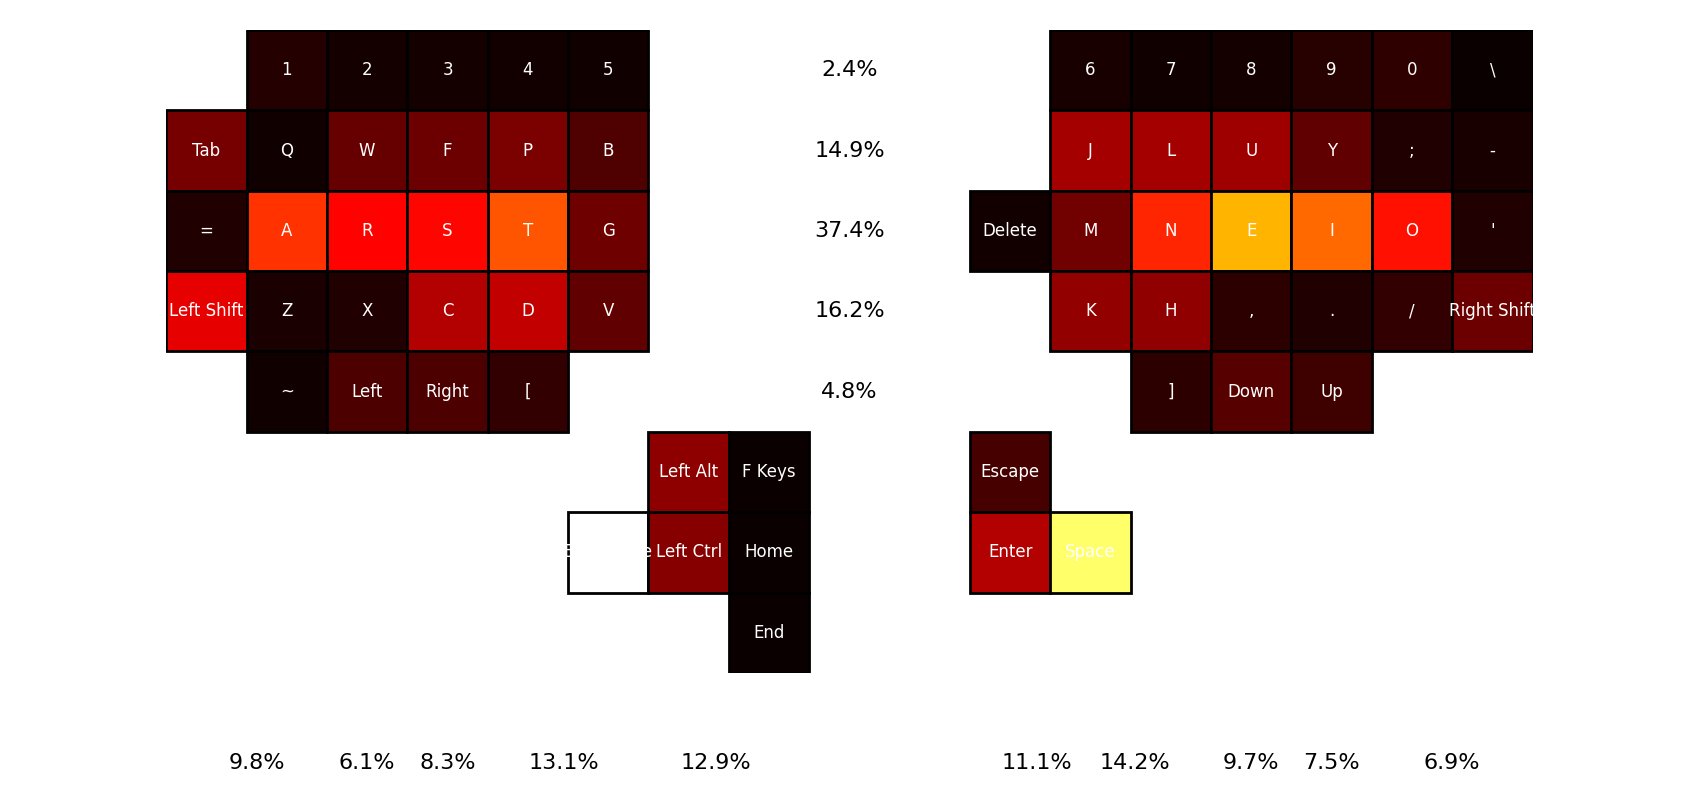
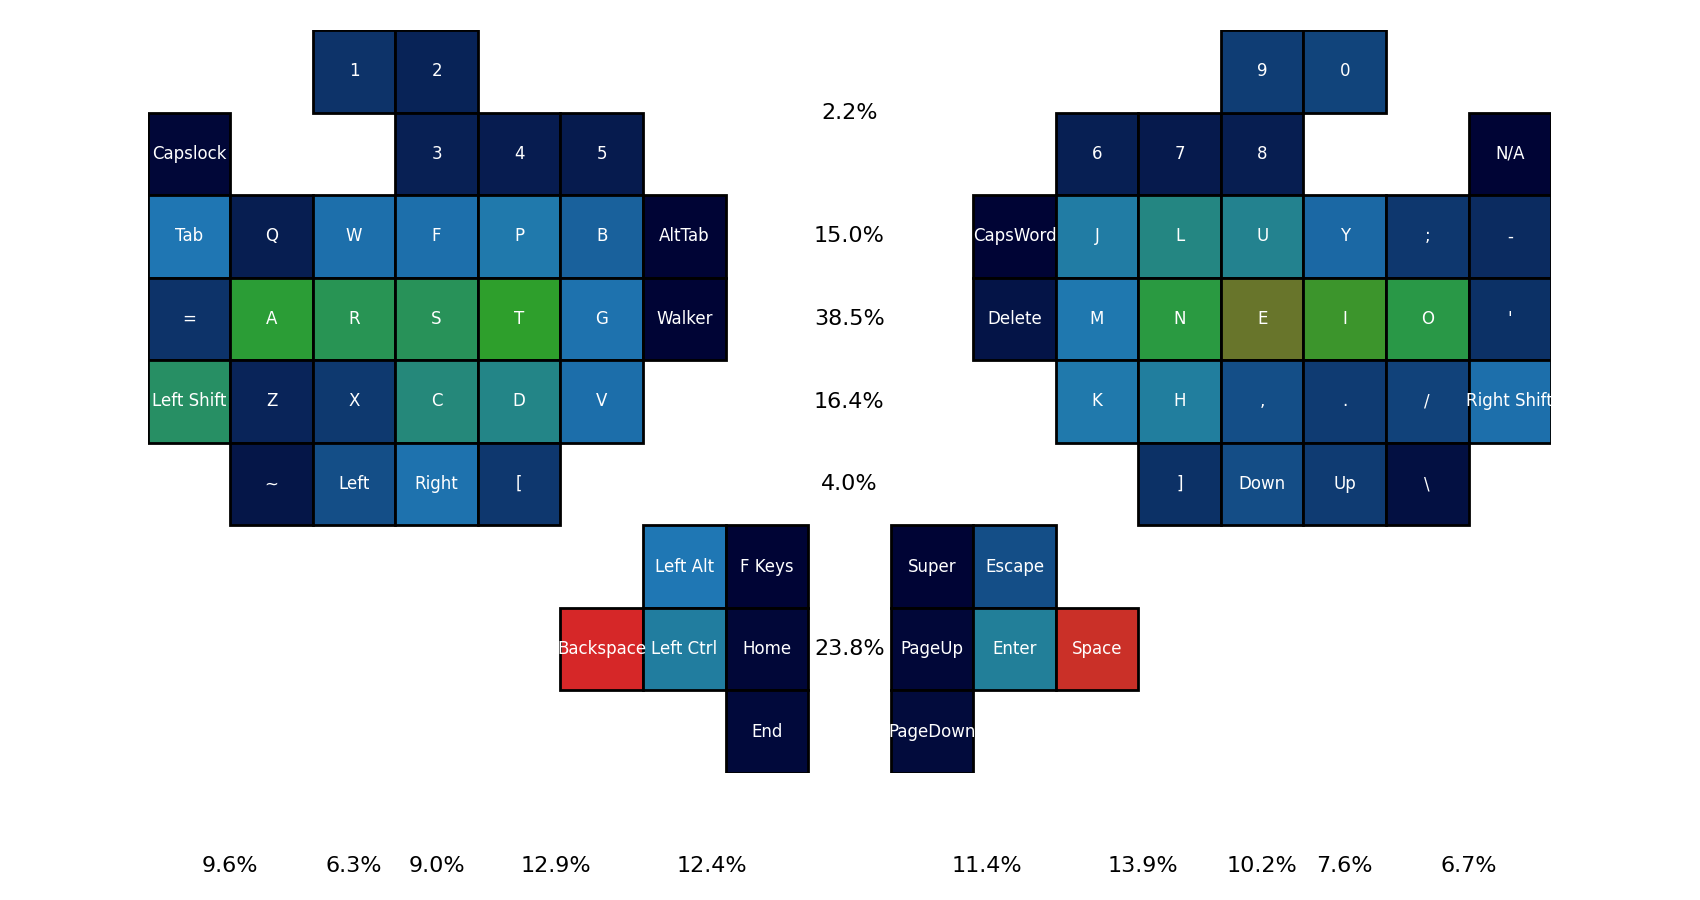
add new keys

diff --git a/main.py b/main.py
@@ -2,6 +2,7 @@ import json
 import csv
 import matplotlib.pyplot as plt
 from matplotlib.patches import Rectangle
+from matplotlib.colors import LinearSegmentedColormap, LogNorm, PowerNorm
 import numpy as np
 
 # 1) Load layout positions (only x, y)
@@ -14,46 +15,54 @@ with open('whatpulse-keyboard-heatmap.csv', newline='') as f:
     reader = csv.DictReader(f)
     for row in reader:
         key = row['Keyname']
-        count = int(row['Keycount'])
-        counts[key] = counts.get(key, 0) + count
-
+        counts[key] = counts.get(key, 0) + int(row['Keycount'])
 total_presses = sum(counts.values())
 
-# 3) Prepare colormap
-all_counts = np.array(list(counts.values()))
-norm = plt.Normalize(vmin=all_counts.min(), vmax=all_counts.max())
-cmap = plt.get_cmap('hot')
+# 3) Prepare colormap (WhatPulse-like, gamma-scaled)
+all_counts = np.array(list(counts.values()), dtype=float)
+vmin = float(all_counts.min())
+vmax = float(all_counts.max())
+if vmin >= vmax: vmax = vmin + 1.0
+cmap = LinearSegmentedColormap.from_list(
+    'whatpulse', ['#000435', '#1F77B4', '#2CA02C', '#D62728'], N=256
+)
+norm = PowerNorm(gamma=0.6, vmin=vmin, vmax=vmax)
 
-# 4) Determine plot bounds, including split positions
+# 4) Determine plot bounds
 xs, ys = [], []
 for attrs in layout.values():
     if not attrs or attrs.get('show') is False:
         continue
-    if 'split' in attrs:
-        for part in attrs['split']:
-            xs.append(part['x'])
-            ys.append(part['y'])
-    else:
-        xs.append(attrs['x'])
-        ys.append(attrs['y'])
+    parts = attrs.get('split', [{'x': attrs['x'], 'y': attrs['y']}])
+    for pos in parts:
+        xs.append(pos['x'])
+        ys.append(pos['y'])
 max_x, max_y = max(xs) + 1, max(ys) + 1
 
-# 5) Compute row percentages for y = 7,6,5,4,3
-row_percent = {}
-for y in [7, 6, 5, 4, 3]:
-    row_sum = 0
+# 5) Define arbitrary row groups
+row_groups = {
+    "7-8": [7, 8],
+    "6":   [6],
+    "5":   [5],
+    "4":   [4],
+    "3":   [3],
+    "0-2": [0, 1, 2],
+}
+row_percent, row_ypos = {}, {}
+for label, ys_grp in row_groups.items():
+    tot = 0
     for key, attrs in layout.items():
         if not attrs or attrs.get('show') is False:
             continue
-        positions = attrs.get('split', [{'x': attrs['x'], 'y': attrs['y']}])
-        for pos in positions:
-            if pos['y'] == y:
-                row_sum += counts.get(key, 0)
-    row_percent[y] = row_sum / total_presses * 100
+        for pos in attrs.get('split', [{'x': attrs['x'], 'y': attrs['y']}]):
+            if pos['y'] in ys_grp:
+                tot += counts.get(key, 0)
+    row_percent[label] = tot / total_presses * 100
+    row_ypos[label] = np.mean(ys_grp) + 0.5
 
-# 6) Define column groups (finger zones)
+# 6) Define column groups
 column_groups = {
-    'pinky':    lambda x, y: x in [0, 1],
+    'pinky':    lambda x, y: x <= 1,
     'ring':     lambda x, y: x == 2,
     'middle':   lambda x, y: x == 3,
     'index':    lambda x, y: x == 4 or (x == 5 and y > 2),
@@ -62,27 +71,22 @@ column_groups = {
     'index_r':  lambda x, y: (x == 11 and y > 2) or x == 12,
     'middle_r': lambda x, y: x == 13,
     'ring_r':   lambda x, y: x == 14,
-    'pinky_r':  lambda x, y: x in [15, 16],
+    'pinky_r':  lambda x, y: x >= 15,
 }
-
-col_counts = {name: [] for name in column_groups}
-col_percent = dict.fromkeys(column_groups, 0)
+col_percent = {}
 group_x = {}
-
-# Collect counts and x positions
 for name, fn in column_groups.items():
-    xs_group = []
     total = 0
+    xs_grp = []
     for key, attrs in layout.items():
         if not attrs or attrs.get('show') is False:
             continue
-        positions = attrs.get('split', [{'x': attrs['x'], 'y': attrs['y']}])
-        for pos in positions:
+        for pos in attrs.get('split', [{'x': attrs['x'], 'y': attrs['y']}]):
             if fn(pos['x'], pos['y']):
                 total += counts.get(key, 0)
-                xs_group.append(pos['x'])
+                xs_grp.append(pos['x'])
     col_percent[name] = total / total_presses * 100
-    group_x[name] = np.mean(xs_group) if xs_group else 0
+    group_x[name] = np.mean(xs_grp) if xs_grp else 0
 
 # 7) Draw heatmap
 fig, ax = plt.subplots(figsize=(max_x / 2, max_y / 2))
@@ -90,8 +94,7 @@ for key, attrs in layout.items():
     if not attrs or attrs.get('show') is False:
         continue
     color = cmap(norm(counts.get(key, 0)))
-    positions = attrs.get('split', [{'x': attrs['x'], 'y': attrs['y']}])
-    for pos in positions:
+    for pos in attrs.get('split', [{'x': attrs['x'], 'y': attrs['y']}]):
         x, y = pos['x'], pos['y']
         ax.add_patch(Rectangle((x, y), 1, 1, facecolor=color, edgecolor='black'))
         ax.text(x + 0.5, y + 0.5, key, ha='center', va='center', fontsize=6, color='white')
@@ -101,24 +104,23 @@ ax.set_ylim(0, max_y)
 ax.set_aspect('equal')
 ax.axis('off')
 
-# 8) Overlay row percentages at center of each row
-for y, pct in row_percent.items():
-    ax.text(max_x / 2, y + 0.5, f"{pct:.1f}%", ha='center', va='center',
-            fontsize=8, color='black', backgroundcolor='white')
+# 8) Overlay row percentages
+for label, pct in row_percent.items():
+    ax.text(max_x / 2, row_ypos[label], f"{pct:.1f}%", ha='center', va='center',
+            fontsize=8, color='black')
 
-# 9) Overlay column percentages at bottom
+# 9) Overlay column percentages
 for name, pct in col_percent.items():
-    x = group_x[name]
-    ax.text(x + 0.5, -1, f"{pct:.1f}%", ha='center', va='top',
-            fontsize=8, color='black', backgroundcolor='white')
+    ax.text(group_x[name] + 0.5, -1, f"{pct:.1f}%", ha='center', va='top',
+            fontsize=8, color='black')
 
 plt.tight_layout()
 plt.savefig('advantage-heatmap.png', dpi=200)
 
-# 10) Print row and column distributions
+# 10) Print distributions
 print("Row distribution (% of total):")
-for y, pct in row_percent.items():
-    print(f" Row {y}: {pct:.1f}%")
+for label, pct in row_percent.items():
+    print(f" Rows {label}: {pct:.1f}%")
 print("\nColumn distribution (% of total):")
 for name, pct in col_percent.items():
     print(f" {name}: {pct:.1f}%")
